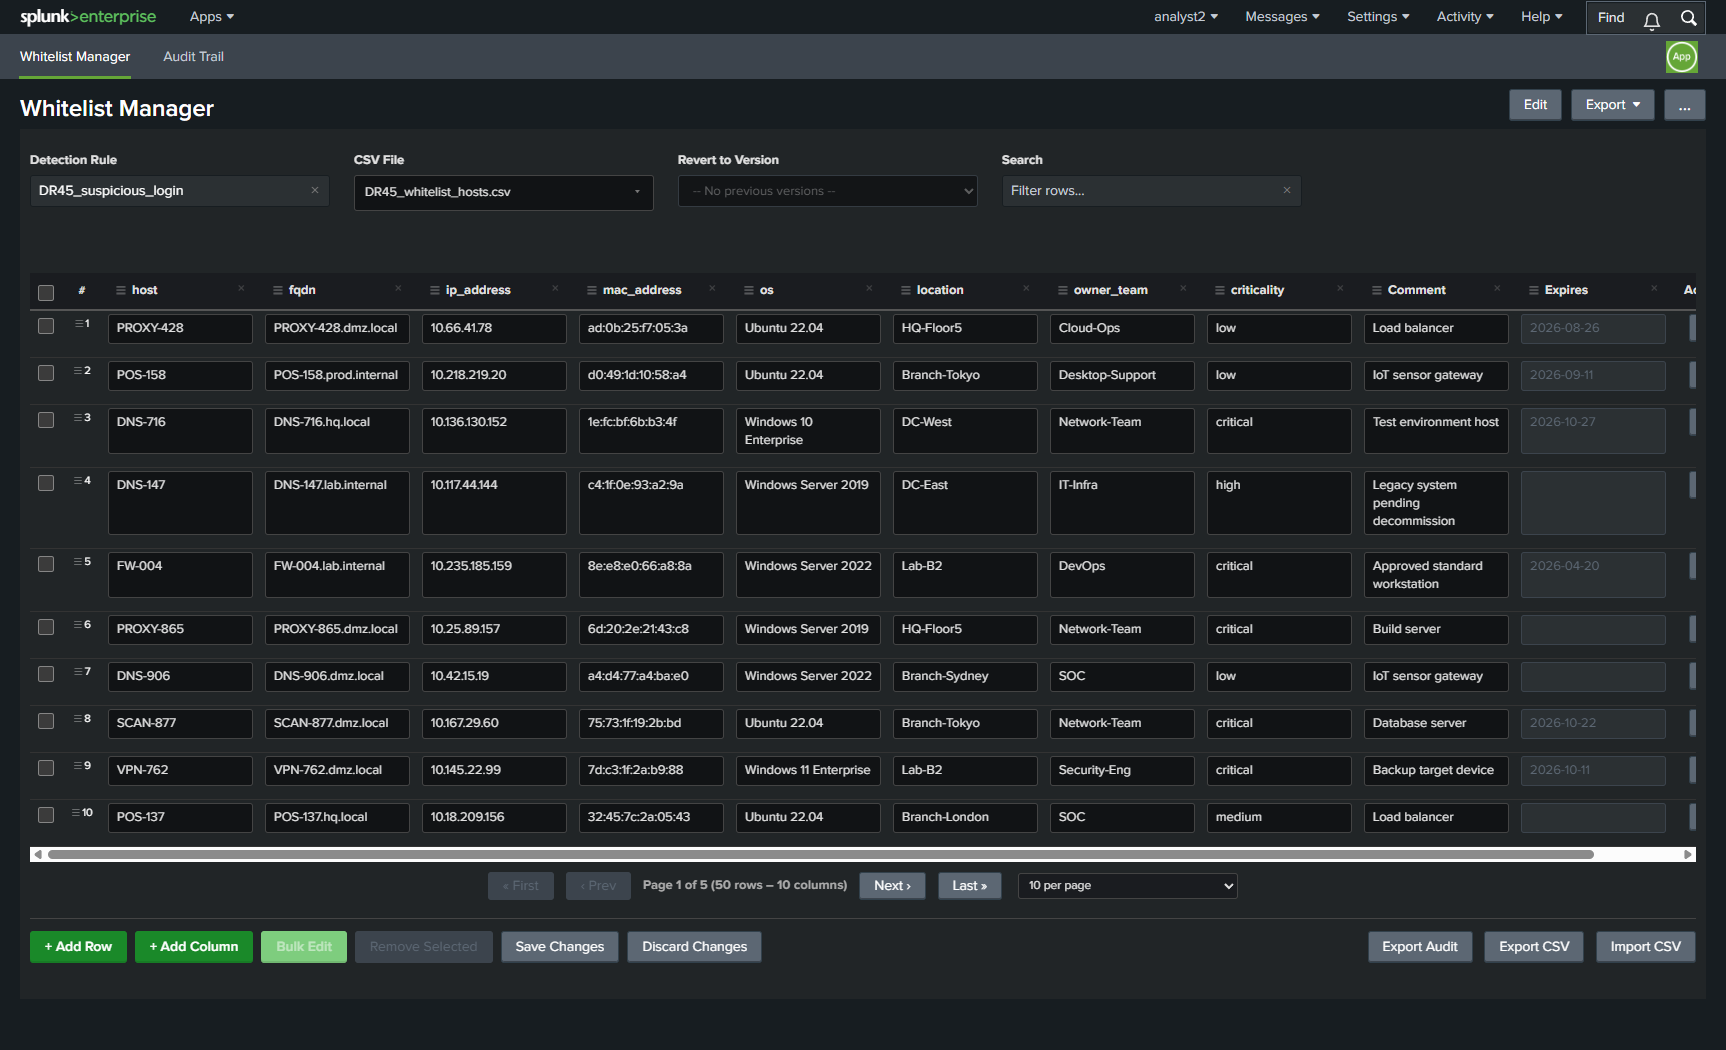
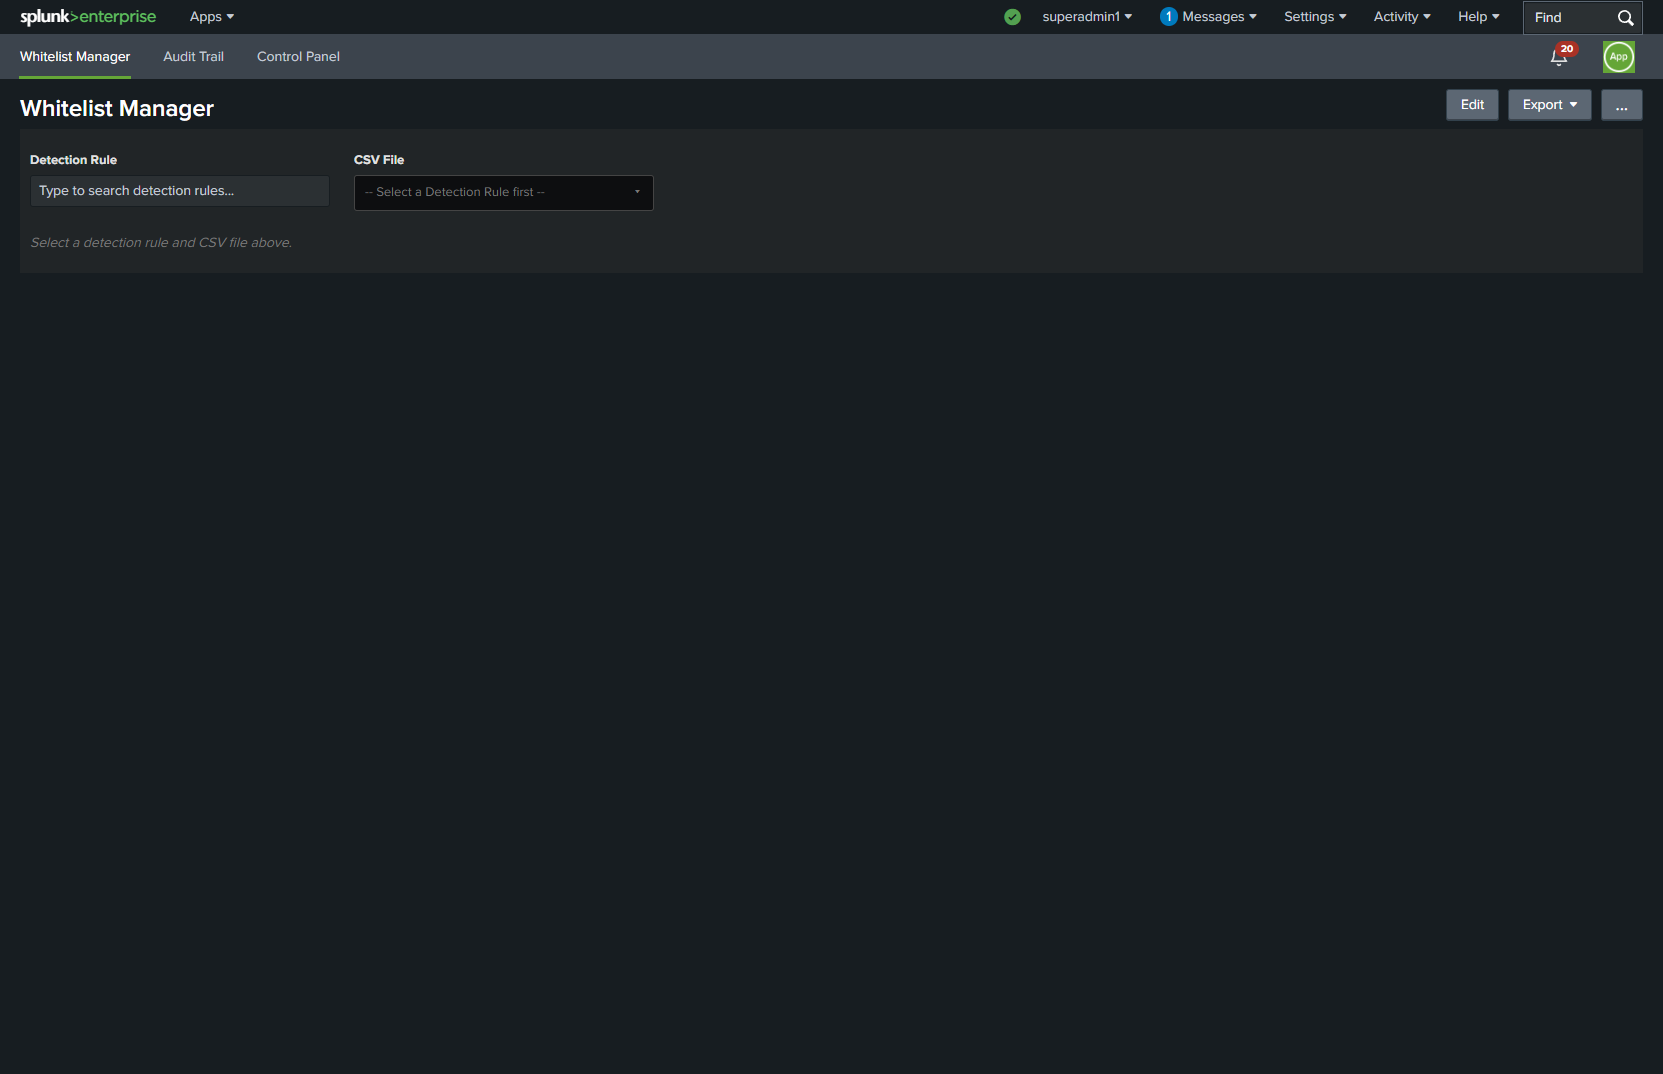
chore(polish): pre-release polish round (build 639)
Pre-public-release pass over UI hygiene, doc accuracy, and screenshot
freshness. None are functional bugs - this is the "small things that
matter for first impressions" round.

UI hygiene (control_panel.js + whitelist_manager.css):
- Standardize 8 inline `<h3 style="margin:...">` tags to a single
  `.wl-section-header` class. Three different margin patterns had
  drifted across tab content; now all `12px 0 8px`.
- Migrate 12 inline `<p style="color:var(--wl-muted,#888)">` empty-
  state callsites to `.wl-empty-state`. The `--wl-muted` token was
  never declared, so the `#888` fallback always won regardless of
  theme - migrating to the actually-defined `--wl-text-muted` is a
  silent latent bug fix.
- Replace inline-styled "Error loading Control Panel" yellow card
  (#ffc107 + inline `onclick`) with a `.wl-error-card` class that
  uses `--wl-err-*` tokens, plus a delegated jQuery click handler.
  Future-proofs for any CSP nonce/strict-dynamic policy.

Repo hygiene:
- Remove 26 PNG screenshot debris files at repo root (Chrome
  browser tool's `screenshot` action saves PNGs without `.png`
  suffix when bare names are passed). All confirmed unused.
- Extend `.gitignore` with forward-looking patterns (`/build-*`,
  `/cp-[0-9]*-*`, `/wm-[0-9]*-*`, `/at-[0-9]*-*`, etc.) so the
  same pattern can't accumulate again.

Documentation:
- README: corrected stale "Dark and light theme support" claim
  (light theme was intentionally removed in build 637).
[…]

diff --git a/appserver/static/control_panel.js b/appserver/static/control_panel.js
@@ -185,14 +185,18 @@ require([
         if (xhr && (xhr.status === 403 || xhr.status === 401)) {
             showAccessDenied();
         } else {
-            $("#wl-cp-loading").html(
-                '<div style="padding:20px;color:#ffc107;text-align:center;">' +
-                '<p style="font-size:18px;font-weight:bold;">Error loading Control Panel</p>' +
-                '<p>The server may be restarting or temporarily unavailable. ' +
-                'Please try refreshing the page.</p>' +
-                '<button type="button" class="btn btn-primary" style="margin-top:10px;' +
-                'cursor:pointer;" onclick="location.reload()">Refresh</button></div>'
-            );
+            $("#wl-cp-loading")
+                .html(
+                    '<div class="wl-error-card">' +
+                    '<p class="wl-error-card-title">Error loading Control Panel</p>' +
+                    '<p class="wl-error-card-message">' +
+                    'The server may be restarting or temporarily unavailable. ' +
+                    'Please try refreshing the page.</p>' +
+                    '<button type="button" class="btn btn-primary" ' +
+                    'id="wl-cp-error-refresh">Refresh</button></div>'
+                )
+                .find("#wl-cp-error-refresh")
+                .on("click", function () { location.reload(); });
         }
     });
 
@@ -433,10 +437,10 @@ require([
         var pendingStart = pendingPage * PAGE_SIZE;
         var pendingSlice = allPending.slice(pendingStart, pendingStart + PAGE_SIZE);
 
-        html += '<h3 style="margin:12px 0 8px">Pending Requests (' + pendingTotal + '/20)</h3>';
+        html += '<h3 class="wl-section-header">Pending Requests (' + pendingTotal + '/20)</h3>';
 
         if (!pendingTotal) {
-            html += '<p style="color:var(--wl-muted,#888)">No pending approval requests.</p>';
+            html += '<p class="wl-empty-state">No pending approval requests.</p>';
         } else {
             // Wrap the table in an overflow-x:auto container so wide
             // tables (9 columns × 260px max-width = ~1700px+) scroll inside
@@ -512,7 +516,7 @@ require([
         var historyStart = historyPage * PAGE_SIZE;
         var historySlice = allResolved.slice(historyStart, historyStart + PAGE_SIZE);
 
-        html += '<h3 style="margin:20px 0 8px">Recent History (' + historyTotal + '/100)</h3>';
+        html += '<h3 class="wl-section-header">Recent History (' + historyTotal + '/100)</h3>';
         if (historyTotal) {
             // Same horizontal-scroll wrapper as the Pending table — Recent
             // History has 11 columns and is even more prone to viewport overflow.
@@ -563,7 +567,7 @@ require([
                 html += renderPagination(historyPage, historyPages, historyTotal, "history");
             }
         } else {
-            html += '<p style="color:var(--wl-muted,#888)">No resolved requests yet.</p>';
+            html += '<p class="wl-empty-state">No resolved requests yet.</p>';
         }
 
         $("#wl-cp-approval-queue").html(html);
@@ -863,7 +867,7 @@ require([
         } else if (at === "admin_mass_usage_reset") {
             return meta + renderAdminMassUsageResetPreview(item);
         }
-        return meta + '<p style="color:var(--wl-muted,#888)">No data preview available for this action type.</p>';
+        return meta + '<p class="wl-empty-state">No data preview available for this action type.</p>';
     }
 
     // ── Helpers ──
@@ -902,7 +906,7 @@ require([
         var headers = hl.headers || payload.headers || [];
         var rowKeys = hl.row_keys || [];
         if (!headers.length || !rowKeys.length) {
-            return '<p style="color:var(--wl-muted,#888)">No row data stored in this request.</p>';
+            return '<p class="wl-empty-state">No row data stored in this request.</p>';
         }
         var label = '<p style="color:#27ae60;margin:0 0 6px"><strong>' +
             rowKeys.length + ' row(s) to be added:</strong></p>';
@@ -924,7 +928,7 @@ require([
         var headers = hl.headers || payload.headers || [];
         var rowKeys = hl.row_keys || [];
         if (!headers.length || !rowKeys.length) {
-            return '<p style="color:var(--wl-muted,#888)">No row data stored in this request.</p>';
+            return '<p class="wl-empty-state">No row data stored in this request.</p>';
         }
         var reasons = (payload.bulk_removal || []).map(function (r) { return r.reason || ""; });
         var label = '<p style="color:#e74c3c;margin:0 0 6px"><strong>' +
@@ -961,7 +965,7 @@ require([
         var newRows = payload.rows || [];
 
         if (!headers.length) {
-            return '<p style="color:var(--wl-muted,#888)">No row data stored in this request.</p>';
+            return '<p class="wl-empty-state">No row data stored in this request.</p>';
         }
 
         // PRIMARY PATH: diff mode using initial_rows vs rows
@@ -1036,7 +1040,7 @@ require([
             return fbLabel + fbHtml + truncationNote(rowKeys.length, PREVIEW_ROW_LIMIT);
         }
 
-        return '<p style="color:var(--wl-muted,#888)">No row data stored in this request.</p>';
+        return '<p class="wl-empty-state">No row data stored in this request.</p>';
     }
 
     // ── Column removal: show which column and sample data ──
@@ -1045,7 +1049,7 @@ require([
         var headers = payload.headers || [];
         var rows = payload.initial_rows || payload.rows || [];
         if (!colName) {
-            return '<p style="color:var(--wl-muted,#888)">Column name not stored in this request.</p>';
+            return '<p class="wl-empty-state">Column name not stored in this request.</p>';
         }
         var label = '<p style="color:#e74c3c;margin:0 0 6px"><strong>Column to be removed: ' +
             _.escape(colName) + '</strong></p>';
@@ -1096,7 +1100,7 @@ require([
         var headers = payload.headers || [];
         var rows = payload.initial_rows || payload.rows || [];
         if (!headers.length) {
-            return '<p style="color:var(--wl-muted,#888)">No import data stored in this request.</p>';
+            return '<p class="wl-empty-state">No import data stored in this request.</p>';
         }
         var label = '<p style="color:#8e44ad;margin:0 0 6px"><strong>Import will replace CSV with ' +
             rows.length + ' row(s):</strong></p>';
@@ -1127,7 +1131,7 @@ require([
             html += '</tbody></table>';
             html += truncationNote(rows.length, PREVIEW_ROW_LIMIT);
         } else {
-            html += '<p style="color:var(--wl-muted,#888)">No initial data (empty CSV).</p>';
+            html += '<p class="wl-empty-state">No initial data (empty CSV).</p>';
         }
         return html;
     }
@@ -1474,7 +1478,7 @@ require([
                 'data-info="' + _.escape(text) + '">i</span>';
         }
 
-        var html = '<h3 style="margin:12px 0 8px">Analyst Settings</h3>';
+        var html = '<h3 class="wl-section-header">Analyst Settings</h3>';
         html += '<div style="max-width:820px">';
         fields.forEach(function (f) {
             var val = limits[f.key] !== undefined ? limits[f.key] : 10;
@@ -2052,7 +2056,7 @@ require([
 
     function renderLimitHistory(history) {
         var html = '<div id="wl-cp-limit-history" style="margin-top:20px">';
-        html += '<h3 style="margin:12px 0 8px">Recent Changes</h3>';
+        html += '<h3 class="wl-section-header">Recent Changes</h3>';
 
         if (!history || !history.length) {
             html += '<p style="color:var(--wl-text-muted,#888);font-size:13px">' +
@@ -2210,11 +2214,11 @@ require([
         var startIdx = usagePage * USAGE_PER_PAGE;
         var pageAnalysts = analysts.slice(startIdx, startIdx + USAGE_PER_PAGE);
 
-        var html = '<h3 style="margin:12px 0 8px">Analyst Usage for ' +
+        var html = '<h3 class="wl-section-header">Analyst Usage for ' +
                    _.escape(date) + '</h3>';
 
         if (!analysts.length) {
-            html += '<p style="color:var(--wl-muted,#888)">No activity recorded today.</p>';
+            html += '<p class="wl-empty-state">No activity recorded today.</p>';
         } else {
             html += '<table class="wl-table"><thead><tr><th style="text-align:left">Analyst</th>';
             USAGE_COLUMNS.forEach(function (col) {
@@ -2350,7 +2354,7 @@ require([
     }
 
     function renderTrashTable(items, autoPurged) {
-        var html = '<h3 style="margin:8px 0 12px">Trash (' +
+        var html = '<h3 class="wl-section-header">Trash (' +
             items.length + ' items)</h3>';
 
         if (autoPurged > 0) {
@@ -2604,7 +2608,7 @@ require([
                 'data-info="' + _.escape(text) + '">i</span>';
         }
 
-        var html = '<h3 style="margin:8px 0 4px">Admin Settings</h3>' +
+        var html = '<h3 class="wl-section-header">Admin Settings</h3>' +
             '<p style="color:var(--wl-muted,#888);font-size:12px;margin-bottom:12px">' +
             'These limits restrict admin actions per period. Super-admins are exempt. ' +
             'Set 0 to disable the action entirely.</p>';
@@ -2918,7 +2922,7 @@ require([
 
     function renderAdminLimitHistory(history) {
         var html = '<div id="wl-cp-admin-limit-history" style="margin-top:20px">';
-        html += '<h3 style="margin:12px 0 8px">Recent Changes</h3>';
+        html += '<h3 class="wl-section-header">Recent Changes</h3>';
 
         if (!history || !history.length) {
             html += '<p style="color:var(--wl-text-muted,#888);font-size:13px">' +

diff --git a/appserver/static/whitelist_manager.css b/appserver/static/whitelist_manager.css
@@ -1042,6 +1042,39 @@ body.wl-resizing * {
     padding: 20px 0;
 }
 
+/* Inline empty-state copy ("No pending approval requests.", "No data
+ * preview available."). Distinct from `.wl-muted` which is the
+ * DOMINANT empty state (table area filled with "This CSV is empty").
+ * Inline empty states live inside tab sections, between a section
+ * heading and the next section, so they need to be quiet — color-only,
+ * no italic, browser-default <p> spacing. Build 639. */
+.wl-empty-state {
+    color: var(--wl-text-muted);
+}
+
+/* Error card for "Control Panel failed to load" type messages.
+ * Build 639: replaces inline-styled centered yellow box (#ffc107
+ * was off-palette and didn't match the dark theme). Uses the
+ * existing --wl-err-* tokens so the visual matches every other
+ * "something went wrong" message in the app (form validation
+ * errors, save failures, etc.). */
+.wl-error-card {
+    padding: 20px;
+    text-align: center;
+    background: var(--wl-err-bg);
+    border: 1px solid var(--wl-err-border);
+    border-radius: 6px;
+    color: var(--wl-err-text);
+}
+.wl-error-card .wl-error-card-title {
+    font-size: 18px;
+    font-weight: bold;
+    margin: 0 0 8px;
+}
+.wl-error-card .wl-error-card-message {
+    margin: 0 0 12px;
+}
+
 .wl-link {
     cursor: pointer;
     text-decoration: underline;
@@ -1365,6 +1398,23 @@ th.wl-pending-approval-header {
     font-style: italic;
     color: #ffb74d;
     white-space: nowrap;
+}
+
+/* ── Section heading (Control Panel tabs) ─────────────────────────────
+ * Build 639 (2026-05-06): standardized 8 inline-styled <h3 style="margin:...">
+ * tags inside `control_panel.js` to a single class. Three different margin
+ * patterns drifted across tab content (`12px 0 8px`, `20px 0 8px`,
+ * `8px 0 12px`, `8px 0 4px`); all are now `12px 0 8px` for vertical
+ * rhythm consistency. The minor structural reasons for the outliers
+ * (Trash/Admin at top of a tab, Recent History wanting breathing room)
+ * are intentionally given up for whole-app visual consistency.
+ *
+ * The class is intentionally minimal — `<h3>` already provides
+ * font-weight: bold and font-size ~1.17em via browser defaults, so
+ * we only need to standardize margin.
+ */
+.wl-section-header {
+    margin: 12px 0 8px;
 }
 
 /* ── Control Panel tab bar ────────────────────────────────────────── */

diff --git a/appserver/static/whitelist_manager.js b/appserver/static/whitelist_manager.js
@@ -11,7 +11,7 @@
 // disk cache. Splunk serves /static/@<server-hash>/... with Cache-Control:
 // public, max-age=31536000; without urlArgs, bumped build numbers don't force
 // a re-fetch and clients run stale JS until they hard-refresh.
-require.config({ urlArgs: "_b=638" });
+require.config({ urlArgs: "_b=639" });
 require([
     "jquery",
     "underscore",

diff --git a/CHANGELOG.md b/CHANGELOG.md
@@ -64,6 +64,89 @@ Detailed per-round entries below.
 
 ---
 
+## Unreleased — 2026-05-06 (build 639, pre-release polish round)
+
+### UI hygiene: standardize section headers, empty states, and error card
+
+Round-up of small inconsistencies surfaced during the open-source
+pre-release audit. None are functional bugs — purely visual /
+maintenance polish.
+
+- **Section header drift** — 8 inline `<h3 style="margin:...">` tags in
+  `control_panel.js` used three different margin patterns
+  (`12px 0 8px`, `20px 0 8px`, `8px 0 12px`, `8px 0 4px`). Standardized
+  on a single `.wl-section-header` class (`margin: 12px 0 8px`).
+- **Empty-state token bug** — 12 `<p style="color:var(--wl-muted,#888)">`
+  callsites referenced `--wl-muted`, which is **not defined** anywhere
+  in the CSS — the `#888` fallback always won, so empty-state copy
+  rendered as slate gray regardless of the dark theme tokens. Migrated
+  to a `.wl-empty-state` class that uses the actually-defined
+  `--wl-text-muted` token.
+- **Error card** — Control Panel "failed to load" error rendered as a
+  centered yellow box (`#ffc107`) with inline styling and an inline
+  `onclick="location.reload()"`. Now uses a `.wl-error-card` class with
+  the existing `--wl-err-*` palette (matches every other "something
+  went wrong" surface in the app), and the Refresh button binds via a
+  delegated jQuery handler instead of inline `onclick`. Future-proofs
+  for any CSP nonce/strict-dynamic policy a deployment might layer on.
+
+### Repo hygiene: remove screenshot debris + extend `.gitignore`
+
+- Removed 11 PNG files left at the repo root by the Chrome browser
+  tool's `screenshot` action (saved without a file extension when a
+  bare name was passed). All confirmed unused — no doc, README, or
+  source file referenced any of them.
+- Extended `.gitignore` with forward-looking patterns
+  (`/build-*`, `/cp-[0-9]*-*`, `/wm-[0-9]*-*`, `/at-[0-9]*-*`,
+  `/[0-9][0-9][0-9]-*`, plus the specific debris filenames) so the
+  same pattern can't accumulate again.
+- Removed 15 additional PNG screenshot debris files
+  (`add-row-3.png`, `at-01-04-*.png`, `cp-01-05-*.png`,
+  `create-rule-form*.png`, `csv-loaded.png`) that were
+  already gitignored by the `/*.png` rule but still cluttering
+  the working tree. These were unused — no markdown, HTML, or
+  source file referenced them.
+
+### Documentation polish
+
+- **README**: corrected stale claim "Dark and light theme support"
+  to "Polished dark theme (light theme intentionally removed in
+  build 637 (2026-05-01) — see CHANGELOG)". The light-theme line had
+  been left over from before the previously-shipped build-637
+  dark-only decision.
+- **README screenshots refreshed (3 of 4)**:
+  - `docs/screenshots/01-main-dashboard.png` — captured at build 639
+    showing dark theme + DR20 rule loaded
+  - `docs/screenshots/03-audit-trail.png` — full audit dashboard
+    fullpage capture at build 639
+  - `docs/screenshots/04-control-panel.png` — full Control Panel
+    Approval Queue tab fullpage at build 639
+  - `docs/screenshots/02-inline-editing.png` — **NOT refreshed**.
+    Captures cell-edit state which needs interactive click + cell
+    selection that's hard to script reliably in headless mode.
+    Recommend manual recapture before public release: open WM,
+    load any rule with rows, click into a cell, edit a value so
+    the highlight is visible, then screenshot.
+- **RELEASE_CHECKLIST.md** Step 5 wording fix: "in `SECURITY.md`
+  under the existing 'Distribution integrity' section in
+  `docs/SBOM.md`" was a confused two-file reference. Corrected to
+  "append under the existing '## Distribution integrity' section"
+  in `docs/SBOM.md` only (where the section actually lives).
+
+### Migration / rollback
+
+- CSS: revert by re-introducing inline `style="margin:..."` on the 8
+  `<h3>` callsites and `style="color:var(--wl-muted,#888)"` on the 12
+  empty-state callsites, then delete the three new classes from
+  `whitelist_manager.css`. Error card revert: restore the inline
+  `onclick="location.reload()"` block. Files affected:
+  `control_panel.js`, `whitelist_manager.css`.
+- `.gitignore`: revert by removing the build-639 stanza. The deleted
+  PNGs are recoverable from git history if needed (none were
+  committed; they were untracked when removed).
+
+---
+
 ## Unreleased — 2026-05-01 (build 638, flatten redundant `.wl-dark X` selectors)
 
 ### Cleanup follow-up: zero `.wl-dark X` selectors remain in CSS
@@ -71,8 +154,8 @@ Detailed per-round entries below.
 Build 637 previously collapsed `:root` light + `body.wl-dark` dark blocks
 to a single `:root`, but left 13 `.wl-dark X` selectors throughout
 `whitelist_manager.css` as harmless redundancy (they always match
-because `wl-dark` is unconditionally applied). Build 638 flattens
-these into their corresponding base rules.
+because `wl-dark` is unconditionally applied). Build 638 (2026-05-01)
+flattened these into their corresponding base rules.
 
 For each pair `X { ...light values... }` + `.wl-dark X { ...dark
 values... }`, the dark values were merged into the base rule and

diff --git a/docs/RELEASE_CHECKLIST.md b/docs/RELEASE_CHECKLIST.md
@@ -223,8 +223,8 @@ into:
 - `README.md` — "Verifying a downloaded release" section
 - `INSTALLATION.md` — recommended verification step before
   `splunk install app`
-- `SECURITY.md` — under the existing "Distribution integrity"
-  section in `docs/SBOM.md`
+- `docs/SBOM.md` — append under the existing
+  "## Distribution integrity" section
 
 Use the EXACT command that worked in Step 2 — paraphrased versions
 that look right but use slightly different flags create support

diff --git a/INSTALLATION.md b/INSTALLATION.md
@@ -17,7 +17,7 @@ These are table-stakes and must work for the app to function:
 | Write access to `$SPLUNK_HOME/etc/apps/wl_manager/lookups/` | CSV editing is the core feature |
 | Write access to `$SPLUNK_HOME/etc/apps/wl_manager/lookups/_versions/` | Version snapshots, tamper-resistant signed state |
 | Read/write on the `wl_audit` index | Audit trail + FIM alerts live here |
-| The `wl_admin`, `wl_superadmin`, `wl_editor` roles (bundled `authorize.conf`) | RBAC |
+| RBAC roles bundled in `default/authorize.conf` (run `grep '^\[role_' default/authorize.conf` for the live list) | Tier-based access control: superadmin / admin / analyst-editor / analyst-viewer / editor / viewer |
 | KV store collections `wl_cooldowns`, `wl_fim_baseline` (bundled `collections.conf`) | Tamper-resistant state |
 
 All of these are installed automatically when you deploy the app bundle.

diff --git a/README.md b/README.md
@@ -42,7 +42,7 @@ Built for SOC teams who need to manage detection rule exceptions without touchin
 - Row drag-and-drop reordering
 - CSV import/export
 - Search and filter rows
-- Dark and light theme support
+- Polished dark theme (light theme intentionally removed in build 637 (2026-05-01) — see CHANGELOG)
 
 ### Approval Workflows
 